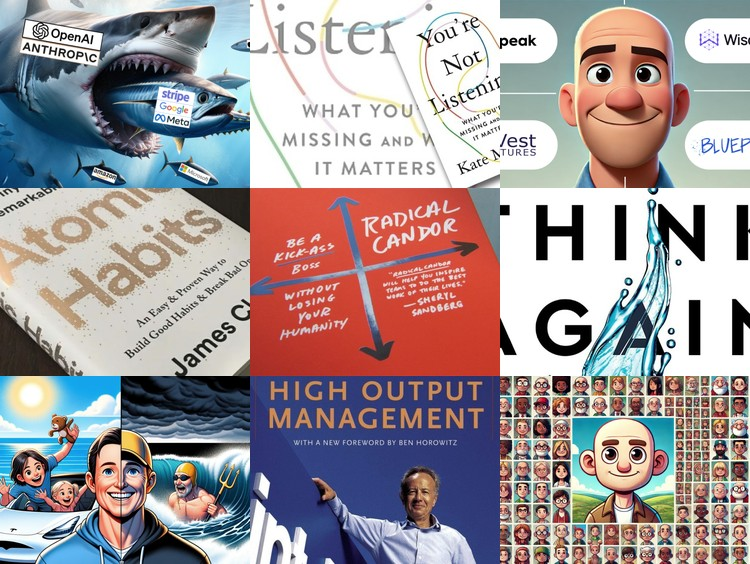
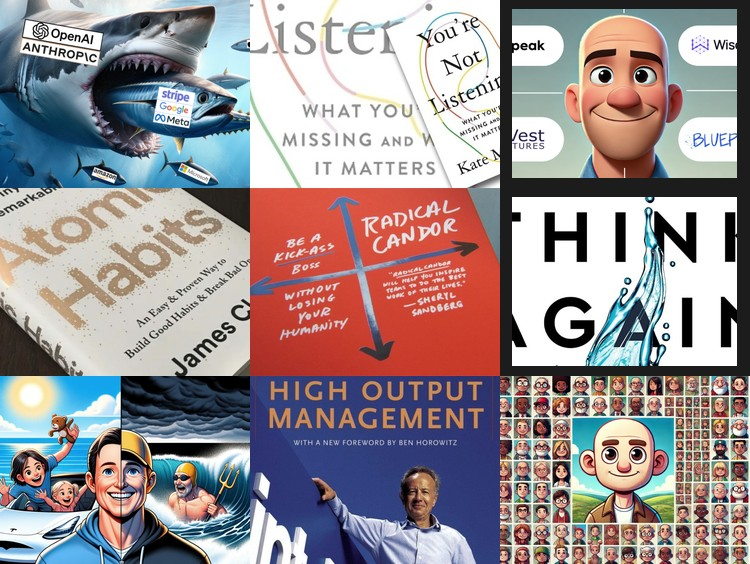
Zoom out top-right and middle-right images to show more content

Changed region(s): [[0.644, 0.0, 1.0, 0.6933]]

diff --git a/backend/create_newsletter_quilt.py b/backend/create_newsletter_quilt.py
@@ -37,6 +37,13 @@ SPECIAL_CROP_IMAGES = {
     7: {'top_crop_ratio': 0.05}  # Only crop 5% from top, 95% from bottom (to show header)
 }
 
+# Images that should be "zoomed out" (scaled down) to show more content
+# These will be resized to 90% of cell size and centered
+ZOOM_OUT_IMAGES = {
+    2: 0.90,  # top-right: scale to 90% of cell size
+    5: 0.90,  # middle-right: scale to 90% of cell size
+}
+
 def download_image(url_or_path):
     """Download an image from URL or load from local file"""
     try:
@@ -128,8 +135,23 @@ def create_quilt(image_sources, output_file=OUTPUT_FILE):
                 img = img.crop((left, top, right, bottom))
             # If already matching aspect ratio, no crop needed
             
-            # Resize to fill the cell exactly (4:3 landscape)
-            img = img.resize((image_width, image_height), Image.Resampling.LANCZOS)
+            # Check if this image should be "zoomed out" (scaled down to show more content)
+            zoom_scale = ZOOM_OUT_IMAGES.get(idx, 1.0)
+            
+            if zoom_scale < 1.0:
+                # Scale down the image to show more of the original content
+                scaled_width = int(image_width * zoom_scale)
+                scaled_height = int(image_height * zoom_scale)
+                img = img.resize((scaled_width, scaled_height), Image.Resampling.LANCZOS)
+                
+                # Calculate offset to center the smaller image in the cell
+                offset_x = (image_width - scaled_width) // 2
+                offset_y = (image_height - scaled_height) // 2
+            else:
+                # Resize to fill the cell exactly (4:3 landscape)
+                img = img.resize((image_width, image_height), Image.Resampling.LANCZOS)
+                offset_x = 0
+                offset_y = 0
             
             # Slightly desaturate to make it feel more in the background (subtle effect)
             # Convert to grayscale and blend back with original for subtle desaturation
@@ -137,8 +159,8 @@ def create_quilt(image_sources, output_file=OUTPUT_FILE):
             # Blend: 85% original color, 15% grayscale for subtle desaturation
             img = Image.blend(img, gray, 0.15)
             
-            # Paste directly - no offset needed since it fills the cell
-            quilt.paste(img, (x, y))
+            # Paste with offset (centered if zoomed out)
+            quilt.paste(img, (x + offset_x, y + offset_y))
             downloaded += 1
         else:
             # Create a dark placeholder
